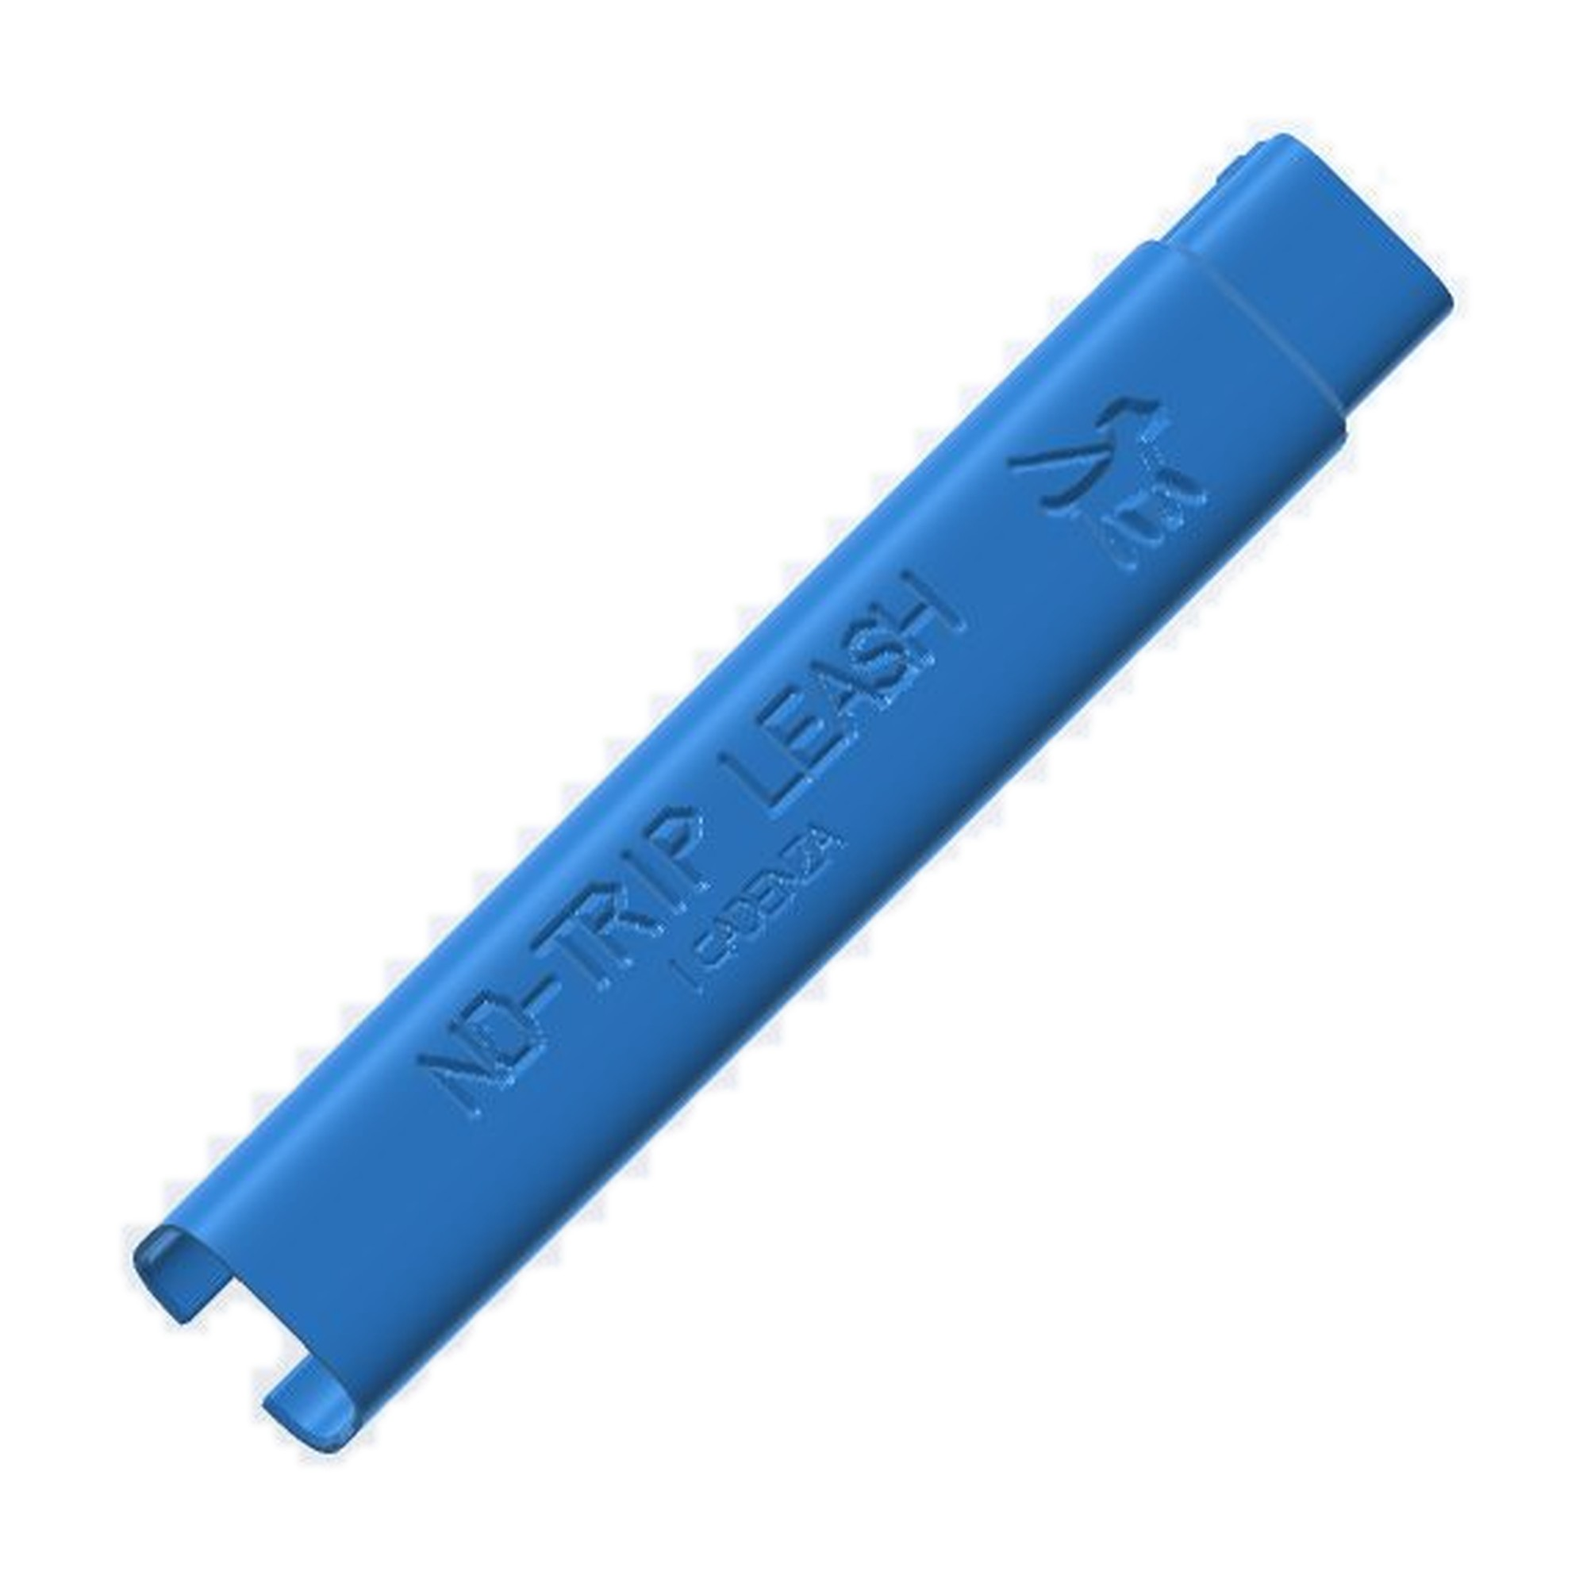
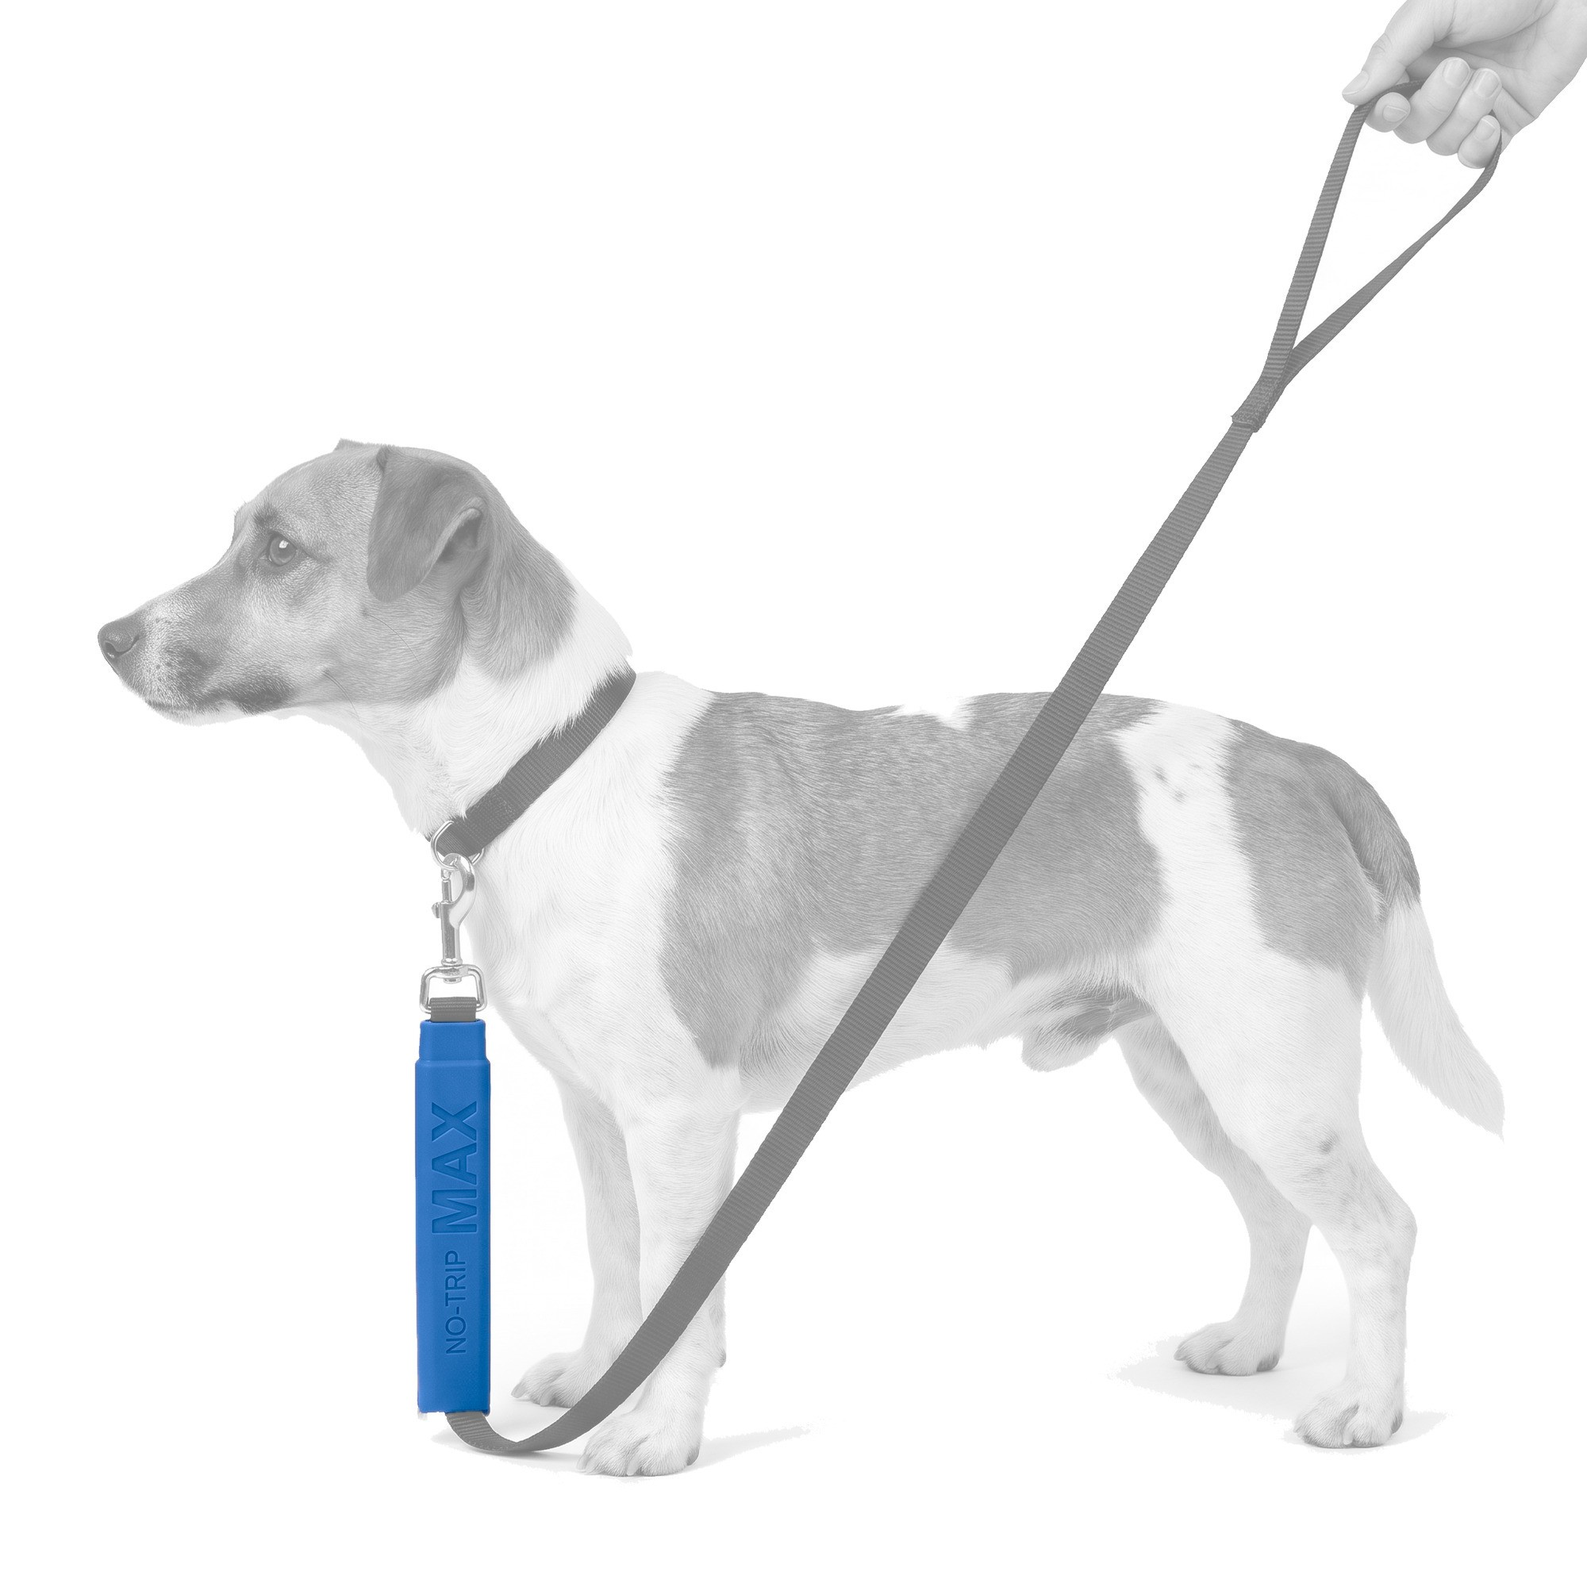
No-Trip Sleeve: in-use main image for every colour, rename the PDP (#6)
* No-Trip: in-use MAIN image for every Standard colour

The product-alone MAIN did not show what the sleeve does. Standard SKUs now
use an in-use scene: the sleeve hangs from a small dog's collar to the ground
and the slack leash runs up to a hand, with the dog, leash and hand greyed so
only the sleeve is in colour (the listing says they are not included).

in-use/main-in-use-master.jpg is the purple master; recolour_main.py writes
one per colour from the median Lab of each hero render, and compose.py uses
them for KP-NT-S-*. Large keeps the product-only MAIN: it ships two pieces.
The sources live under tools/ so they stay out of the served site and its
page-weight budget.

* No-Trip Sleeve: rename the PDP and open it on the in-use picture

The product is now called No-Trip Sleeve (title, crumbs, heading, copy, alt
text, footer link). The Standard size's main panel shows the in-use image
per colour, the same file as the Amazon MAIN, and the page opens on Standard
so that picture is the first thing a visitor sees.

---------

diff --git a/src/products/_public-preview/index.html b/src/products/_public-preview/index.html
@@ -1,7 +1,7 @@
 ---
 layout: base.njk
-title: "No-Trip Leash - Dog Leash Stiffener, Anti-Tangle Snap-On Sleeve - Kinor Partners"
-description: "No-Trip Leash keeps the lower stretch of your dog's leash straight and clear of its legs. Snaps on without unclipping. 6 or 11.4 inches. Fits 5/8 and 3/4 inch webbing, leather, padded and rope leashes."
+title: "No-Trip Sleeve - Dog Leash Stiffener, Anti-Tangle Snap-On Sleeve - Kinor Partners"
+description: "No-Trip Sleeve keeps the lower stretch of your dog's leash straight and clear of its legs. Snaps on without unclipping. 6 or 11.4 inches. Fits 5/8 and 3/4 inch webbing, leather, padded and rope leashes."
 permalink: "/d/9b3332a5300a/"
 eleventyExcludeFromCollections: true
 ---
@@ -161,7 +161,7 @@ eleventyExcludeFromCollections: true
 <div class="kp-container">
   <div class="draft-note"><b>Preview.</b> Imagery is AI-generated concept work, not photography of a manufactured unit. Pricing and specification are provisional and the product is not yet on sale.</div>
   <div class="crumbs" style="font-size:13.5px;color:var(--muted);margin-bottom:18px">
-    <a href="/">Home</a> / No-Trip Leash</div>
+    <a href="/">Home</a> / No-Trip Sleeve</div>
   <div class="pdp">
     <div class="pdp-gallery">
       <div class="pdp-main"><img id="pdp-main-img"
@@ -186,7 +186,7 @@ eleventyExcludeFromCollections: true
         photography follows the first moulded run.</p>
     </div>
     <div class="pdp-info">
-      <h1>No-Trip Leash</h1>
+      <h1>No-Trip Sleeve</h1>
       <div class="hr-rule"></div>
       <p class="pdp-sub">Stops your dog tripping over its own leash.</p>
       <div class="sizes" role="radiogroup" aria-label="Choose a size"><button class="size" role="radio" aria-checked="false" data-i="0"><div class="size-head"><div class="txt"><div class="nm">Standard</div><div class="ln">6.0 in &middot; 1 piece</div></div><div class="mini"><canvas width="222" height="222" data-mini="0"></canvas></div></div><div class="pr">$9.99</div><div class="fits"><b>Dogs up to 20 inches at the shoulder.</b> French Bulldog, Beagle, Cavalier, Miniature Schnauzer, Dachshund, Cocker Spaniel.</div></button><button class="size" role="radio" aria-checked="true" data-i="1"><div class="size-head"><div class="txt"><div class="nm">Large</div><div class="ln">11.4 in &middot; 2 pieces</div></div><div class="mini"><canvas width="222" height="222" data-mini="1"></canvas></div></div><div class="pr">$19.99</div><div class="fits"><b>Dogs 20 to 30 inches at the shoulder.</b> Labrador, Golden Retriever, German Shepherd, Standard Poodle, Doodle, Boxer, Rottweiler.</div></button></div>
@@ -228,7 +228,7 @@ eleventyExcludeFromCollections: true
       Both are worst on tall, long-legged breeds - retrievers, shepherds,
       doodles - because the leash has further to fall before it reaches the
       ground.</p>
-      <p><strong>No-Trip Leash</strong> makes the last foot of the leash behave like a
+      <p><strong>No-Trip Sleeve</strong> makes the last foot of the leash behave like a
       short, semi-rigid rod. That section stays pointed out and away from the
       dog rather than hanging down, so the leash simply is not where the legs
       are. The rest of your leash is untouched, and still coils and stores
@@ -300,12 +300,13 @@ eleventyExcludeFromCollections: true
   <button class="zoom-x" id="zoom-x" type="button" aria-label="Close">&times;</button>
   <img id="zoom-img" alt="">
 </div>
-<script>const IMGS=["/assets/img/notrip-leash/lifestyle-golden.jpg","/assets/img/notrip-leash/lifestyle-doodle.jpg","/assets/img/notrip-leash/before-after-labelled.jpg","/assets/img/notrip-leash/before-after-small-labelled.jpg","/assets/img/notrip-leash/before-after-slack-labelled.jpg","/assets/img/notrip-leash/before-after-slack-small-labelled.jpg","/assets/img/notrip-leash/lead-slack.jpg","/assets/img/notrip-leash/lead-slack-small.jpg","/assets/img/notrip-leash/pair-joined.jpg","/assets/img/notrip-leash/lifestyle-hand-labelled.jpg","/assets/img/notrip-leash/detail-clip.jpg","/assets/img/notrip-leash/hero.jpg","/assets/img/notrip-leash/colours.jpg","/assets/img/notrip-leash/lead-seated.jpg"];const SKUS=[{d:"<b>Dogs up to 20 inches at the shoulder.</b> French Bulldog, Beagle, Cavalier, Miniature Schnauzer, Dachshund, Cocker Spaniel.",w:"1.1 oz / 31 g",b:"One sleeve",n:"Standard"},{d:"<b>Dogs 20 to 30 inches at the shoulder.</b> Labrador, Golden Retriever, German Shepherd, Standard Poodle, Doodle, Boxer, Rottweiler.",w:"2.2 oz / 63 g",b:"Two sleeves",n:"Large"}];const DEF=1;
+<script>const IMGS=["/assets/img/notrip-leash/lifestyle-golden.jpg","/assets/img/notrip-leash/lifestyle-doodle.jpg","/assets/img/notrip-leash/before-after-labelled.jpg","/assets/img/notrip-leash/before-after-small-labelled.jpg","/assets/img/notrip-leash/before-after-slack-labelled.jpg","/assets/img/notrip-leash/before-after-slack-small-labelled.jpg","/assets/img/notrip-leash/lead-slack.jpg","/assets/img/notrip-leash/lead-slack-small.jpg","/assets/img/notrip-leash/pair-joined.jpg","/assets/img/notrip-leash/lifestyle-hand-labelled.jpg","/assets/img/notrip-leash/detail-clip.jpg","/assets/img/notrip-leash/hero.jpg","/assets/img/notrip-leash/colours.jpg","/assets/img/notrip-leash/lead-seated.jpg"];const SKUS=[{d:"<b>Dogs up to 20 inches at the shoulder.</b> French Bulldog, Beagle, Cavalier, Miniature Schnauzer, Dachshund, Cocker Spaniel.",w:"1.1 oz / 31 g",b:"One sleeve",n:"Standard"},{d:"<b>Dogs 20 to 30 inches at the shoulder.</b> Labrador, Golden Retriever, German Shepherd, Standard Poodle, Doodle, Boxer, Rottweiler.",w:"2.2 oz / 63 g",b:"Two sleeves",n:"Large"}];const DEF=0;
 const SPIN=[["/assets/img/notrip-leash/spin/spin-00.webp","/assets/img/notrip-leash/spin/spin-01.webp","/assets/img/notrip-leash/spin/spin-02.webp","/assets/img/notrip-leash/spin/spin-03.webp","/assets/img/notrip-leash/spin/spin-04.webp","/assets/img/notrip-leash/spin/spin-05.webp","/assets/img/notrip-leash/spin/spin-06.webp","/assets/img/notrip-leash/spin/spin-07.webp","/assets/img/notrip-leash/spin/spin-08.webp","/assets/img/notrip-leash/spin/spin-09.webp","/assets/img/notrip-leash/spin/spin-10.webp","/assets/img/notrip-leash/spin/spin-11.webp","/assets/img/notrip-leash/spin/spin-12.webp","/assets/img/notrip-leash/spin/spin-13.webp","/assets/img/notrip-leash/spin/spin-14.webp","/assets/img/notrip-leash/spin/spin-15.webp","/assets/img/notrip-leash/spin/spin-16.webp","/assets/img/notrip-leash/spin/spin-17.webp","/assets/img/notrip-leash/spin/spin-18.webp","/assets/img/notrip-leash/spin/spin-19.webp","/assets/img/notrip-leash/spin/spin-20.webp","/assets/img/notrip-leash/spin/spin-21.webp","/assets/img/notrip-leash/spin/spin-22.webp","/assets/img/notrip-leash/spin/spin-23.webp","/assets/img/notrip-leash/spin/spin-24.webp","/assets/img/notrip-leash/spin/spin-25.webp","/assets/img/notrip-leash/spin/spin-26.webp","/assets/img/notrip-leash/spin/spin-27.webp","/assets/img/notrip-leash/spin/spin-28.webp","/assets/img/notrip-leash/spin/spin-29.webp","/assets/img/notrip-leash/spin/spin-30.webp","/assets/img/notrip-leash/spin/spin-31.webp","/assets/img/notrip-leash/spin/spin-32.webp","/assets/img/notrip-leash/spin/spin-33.webp","/assets/img/notrip-leash/spin/spin-34.webp","/assets/img/notrip-leash/spin/spin-35.webp"],["/assets/img/notrip-leash/spin-large/spin-00.webp","/assets/img/notrip-leash/spin-large/spin-01.webp","/assets/img/notrip-leash/spin-large/spin-02.webp","/assets/img/notrip-leash/spin-large/spin-03.webp","/assets/img/notrip-leash/spin-large/spin-04.webp","/assets/img/notrip-leash/spin-large/spin-05.webp","/assets/img/notrip-leash/spin-large/spin-06.webp","/assets/img/notrip-leash/spin-large/spin-07.webp","/assets/img/notrip-leash/spin-large/spin-08.webp","/assets/img/notrip-leash/spin-large/spin-09.webp","/assets/img/notrip-leash/spin-large/spin-10.webp","/assets/img/notrip-leash/spin-large/spin-11.webp","/assets/img/notrip-leash/spin-large/spin-12.webp","/assets/img/notrip-leash/spin-large/spin-13.webp","/assets/img/notrip-leash/spin-large/spin-14.webp","/assets/img/notrip-leash/spin-large/spin-15.webp","/assets/img/notrip-leash/spin-large/spin-16.webp","/assets/img/notrip-leash/spin-large/spin-17.webp","/assets/img/notrip-leash/spin-large/spin-18.webp","/assets/img/notrip-leash/spin-large/spin-19.webp","/assets/img/notrip-leash/spin-large/spin-20.webp","/assets/img/notrip-leash/spin-large/spin-21.webp","/assets/img/notrip-leash/spin-large/spin-22.webp","/assets/img/notrip-leash/spin-large/spin-23.webp","/assets/img/notrip-leash/spin-large/spin-24.webp","/assets/img/notrip-leash/spin-large/spin-25.webp","/assets/img/notrip-leash/spin-large/spin-26.webp","/assets/img/notrip-leash/spin-large/spin-27.webp","/assets/img/notrip-leash/spin-large/spin-28.webp","/assets/img/notrip-leash/spin-large/spin-29.webp","/assets/img/notrip-leash/spin-large/spin-30.webp","/assets/img/notrip-leash/spin-large/spin-31.webp","/assets/img/notrip-leash/spin-large/spin-32.webp","/assets/img/notrip-leash/spin-large/spin-33.webp","/assets/img/notrip-leash/spin-large/spin-34.webp","/assets/img/notrip-leash/spin-large/spin-35.webp"]];
 const MINI=[["/assets/img/notrip-leash/mini-standard/00.webp","/assets/img/notrip-leash/mini-standard/01.webp","/assets/img/notrip-leash/mini-standard/02.webp","/assets/img/notrip-leash/mini-standard/03.webp","/assets/img/notrip-leash/mini-standard/04.webp","/assets/img/notrip-leash/mini-standard/05.webp","/assets/img/notrip-leash/mini-standard/06.webp","/assets/img/notrip-leash/mini-standard/07.webp","/assets/img/notrip-leash/mini-standard/08.webp","/assets/img/notrip-leash/mini-standard/09.webp","/assets/img/notrip-leash/mini-standard/10.webp","/assets/img/notrip-leash/mini-standard/11.webp","/assets/img/notrip-leash/mini-standard/12.webp","/assets/img/notrip-leash/mini-standard/13.webp","/assets/img/notrip-leash/mini-standard/14.webp","/assets/img/notrip-leash/mini-standard/15.webp","/assets/img/notrip-leash/mini-standard/16.webp","/assets/img/notrip-leash/mini-standard/17.webp","/assets/img/notrip-leash/mini-standard/18.webp","/assets/img/notrip-leash/mini-standard/19.webp","/assets/img/notrip-leash/mini-standard/20.webp","/assets/img/notrip-leash/mini-standard/21.webp","/assets/img/notrip-leash/mini-standard/22.webp","/assets/img/notrip-leash/mini-standard/23.webp"],["/assets/img/notrip-leash/mini-large/00.webp","/assets/img/notrip-leash/mini-large/01.webp","/assets/img/notrip-leash/mini-large/02.webp","/assets/img/notrip-leash/mini-large/03.webp","/assets/img/notrip-leash/mini-large/04.webp","/assets/img/notrip-leash/mini-large/05.webp","/assets/img/notrip-leash/mini-large/06.webp","/assets/img/notrip-leash/mini-large/07.webp","/assets/img/notrip-leash/mini-large/08.webp","/assets/img/notrip-leash/mini-large/09.webp","/assets/img/notrip-leash/mini-large/10.webp","/assets/img/notrip-leash/mini-large/11.webp","/assets/img/notrip-leash/mini-large/12.webp","/assets/img/notrip-leash/mini-large/13.webp","/assets/img/notrip-leash/mini-large/14.webp","/assets/img/notrip-leash/mini-large/15.webp","/assets/img/notrip-leash/mini-large/16.webp","/assets/img/notrip-leash/mini-large/17.webp","/assets/img/notrip-leash/mini-large/18.webp","/assets/img/notrip-leash/mini-large/19.webp","/assets/img/notrip-leash/mini-large/20.webp","/assets/img/notrip-leash/mini-large/21.webp","/assets/img/notrip-leash/mini-large/22.webp","/assets/img/notrip-leash/mini-large/23.webp"]];
 const IMGSKU=[1,0,1,0,1,0,1,0,1,-1,-1,-1,-1,-1];const LEAD=[1,0];
+// Standard opens on the in-use picture (the Amazon MAIN, greyed dog and leash).
 const COLS=["Black","White","Grey","Red","Orange","Yellow","Green","Teal","Blue","Purple","Pink"];const DEFC=0;
-const HERO=[["/assets/img/notrip-leash/hero-standard-black.jpg","/assets/img/notrip-leash/hero-standard-white.jpg","/assets/img/notrip-leash/hero-standard-grey.jpg","/assets/img/notrip-leash/hero-standard-red.jpg","/assets/img/notrip-leash/hero-standard-orange.jpg","/assets/img/notrip-leash/hero-standard-yellow.jpg","/assets/img/notrip-leash/hero-standard-green.jpg","/assets/img/notrip-leash/hero-standard-teal.jpg","/assets/img/notrip-leash/hero-standard-blue.jpg","/assets/img/notrip-leash/hero-standard-purple.jpg","/assets/img/notrip-leash/hero-standard-pink.jpg"],["/assets/img/notrip-leash/hero-large-black.jpg","/assets/img/notrip-leash/hero-large-white.jpg","/assets/img/notrip-leash/hero-large-grey.jpg","/assets/img/notrip-leash/hero-large-red.jpg","/assets/img/notrip-leash/hero-large-orange.jpg","/assets/img/notrip-leash/hero-large-yellow.jpg","/assets/img/notrip-leash/hero-large-green.jpg","/assets/img/notrip-leash/hero-large-teal.jpg","/assets/img/notrip-leash/hero-large-blue.jpg","/assets/img/notrip-leash/hero-large-purple.jpg","/assets/img/notrip-leash/hero-large-pink.jpg"]];
+const HERO=[["/assets/img/notrip-leash/amazon/KP-NT-S-BLK.MAIN.jpg","/assets/img/notrip-leash/amazon/KP-NT-S-WHT.MAIN.jpg","/assets/img/notrip-leash/amazon/KP-NT-S-GRY.MAIN.jpg","/assets/img/notrip-leash/amazon/KP-NT-S-RED.MAIN.jpg","/assets/img/notrip-leash/amazon/KP-NT-S-ORG.MAIN.jpg","/assets/img/notrip-leash/amazon/KP-NT-S-YEL.MAIN.jpg","/assets/img/notrip-leash/amazon/KP-NT-S-GRN.MAIN.jpg","/assets/img/notrip-leash/amazon/KP-NT-S-TEL.MAIN.jpg","/assets/img/notrip-leash/amazon/KP-NT-S-BLU.MAIN.jpg","/assets/img/notrip-leash/amazon/KP-NT-S-PUR.MAIN.jpg","/assets/img/notrip-leash/amazon/KP-NT-S-PNK.MAIN.jpg"],["/assets/img/notrip-leash/hero-large-black.jpg","/assets/img/notrip-leash/hero-large-white.jpg","/assets/img/notrip-leash/hero-large-grey.jpg","/assets/img/notrip-leash/hero-large-red.jpg","/assets/img/notrip-leash/hero-large-orange.jpg","/assets/img/notrip-leash/hero-large-yellow.jpg","/assets/img/notrip-leash/hero-large-green.jpg","/assets/img/notrip-leash/hero-large-teal.jpg","/assets/img/notrip-leash/hero-large-blue.jpg","/assets/img/notrip-leash/hero-large-purple.jpg","/assets/img/notrip-leash/hero-large-pink.jpg"]];
 (function(){
 var m=document.getElementById('pdp-main-img'),
     t=[].slice.call(document.querySelectorAll('.pdp-thumbs button'));
@@ -338,7 +339,7 @@ function showHero(){
   var row=HERO[curSize];
   if(!row||!row[curCol])return;
   m.src=row[curCol];
-  m.alt='No-Trip Leash, '+SKUS[curSize].n+', '+COLS[curCol];
+  m.alt='No-Trip Sleeve, '+SKUS[curSize].n+', '+COLS[curCol];
   m.hidden=false;
   if(window.NTSpin)window.NTSpin.show(false);
   t.forEach(function(x){x.classList.remove('active')});

diff --git a/tools/notrip-amazon/recolour_main.py b/tools/notrip-amazon/recolour_main.py
@@ -1,0 +1,42 @@
+"""Write main-in-use-standard-<colour>.jpg: the in-use MAIN scene with its sleeve recoloured.
+
+main-in-use-master.jpg is the purple master (dog, leash and hand already greyed). Run this
+before compose.py whenever the master or a hero render changes:
+
+    py -3 -I tools/notrip-amazon/recolour_main.py
+Target colour = median Lab of the part in that colour's hero render."""
+import sys, pathlib, numpy as np
+from PIL import Image
+from scipy import ndimage
+from skimage import color
+HERE = pathlib.Path(__file__).resolve().parent; W = HERE.parents[1]
+sys.path.insert(0, str(W / 'tools' / 'notrip-amazon'))
+import compose as C
+SRC = W / 'src/assets/img/notrip-leash'
+base = np.asarray(Image.open(HERE / 'in-use' / 'main-in-use-master.jpg').convert('RGB')).astype(float) / 255
+
+hsv = np.asarray(Image.fromarray((base * 255).astype(np.uint8)).convert('HSV')).astype(int)
+m = ndimage.binary_opening((hsv[..., 0] >= 175) & (hsv[..., 0] <= 225) & (hsv[..., 1] >= 60) & (hsv[..., 2] >= 40), iterations=2)
+lab_, n = ndimage.label(m); sizes = ndimage.sum(m, lab_, range(1, n + 1))
+keep = ndimage.binary_fill_holes(ndimage.binary_closing(lab_ == 1 + sizes.argmax(), iterations=6))
+alpha = ndimage.gaussian_filter(keep.astype(float), 1.2)[..., None]
+L = color.rgb2lab(base)
+src_med = np.median(L[keep], axis=0)
+
+for code, name in C.COLOURS.items():
+    hero = C.load(f'hero-standard-{name}.jpg')
+    hm = np.asarray(C.cutout(hero)) > 200
+    hm = ndimage.binary_erosion(hm, iterations=6)
+    tgt = np.median(color.rgb2lab(np.asarray(hero).astype(float) / 255)[hm], axis=0)
+    out = L.copy()
+    dL = L[..., 0] - src_med[0]
+    # keep the moulded lettering legible on very light and very dark parts
+    gain = 0.9 if 25 < tgt[0] < 80 else 1.1
+    out[..., 0] = np.clip(tgt[0] + dL * gain, 0, 100)
+    out[..., 1] = tgt[1] + (L[..., 1] - src_med[1]) * 0.15
+    out[..., 2] = tgt[2] + (L[..., 2] - src_med[2]) * 0.15
+    rgb = np.clip(color.lab2rgb(out), 0, 1)
+    comp = base * (1 - alpha) + rgb * alpha
+    im = Image.fromarray((comp * 255).round().astype(np.uint8))
+    im.save(HERE / 'in-use' / f'main-in-use-standard-{name}.jpg', quality=92, subsampling=0)
+    print(code, name, 'target Lab', np.round(tgt, 1))

diff --git a/tools/notrip-amazon/compose.py b/tools/notrip-amazon/compose.py
@@ -239,12 +239,24 @@ def colours():
     return band(c)
 
 
+# In-use MAIN images that replace the product-alone shot for a SKU. Already 2000x2000 on
+# pure white: the dog, leash and hand are greyed so only the sleeve is in colour, which is
+# how the listing says they are not included. Text-free apart from what is moulded on it.
+# recolour_main.py writes one per colour from main-in-use-master.jpg. Large stays product-only:
+# it ships two pieces and the scene shows one.
+MAIN_IN_USE = {f'KP-NT-S-{code}': f'main-in-use-standard-{name}.jpg' for code, name in COLOURS.items()}
+
+
 def main():
     OUT.mkdir(parents=True, exist_ok=True)
     q = dict(quality=90, optimize=True, progressive=True)
     for code, colour in COLOURS.items():
         for sz, size in SIZES.items():
-            main_image(f'hero-{size}-{colour}.jpg').save(OUT / f'KP-NT-{sz}-{code}.MAIN.jpg', **q)
+            sku = f'KP-NT-{sz}-{code}'
+            if sku in MAIN_IN_USE:
+                Image.open(HERE / 'in-use' / MAIN_IN_USE[sku]).convert('RGB').save(OUT / f'{sku}.MAIN.jpg', **q)
+            else:
+                main_image(f'hero-{size}-{colour}.jpg').save(OUT / f'{sku}.MAIN.jpg', **q)
     main_image('hero-large-black.jpg').save(OUT / 'KP-NT.MAIN.jpg', **q)
 
     slots = {
